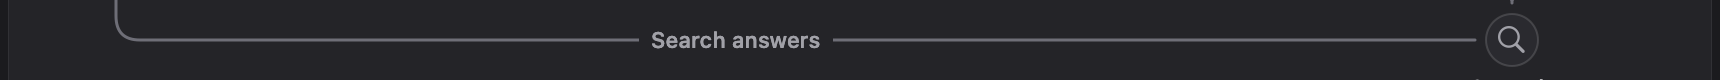
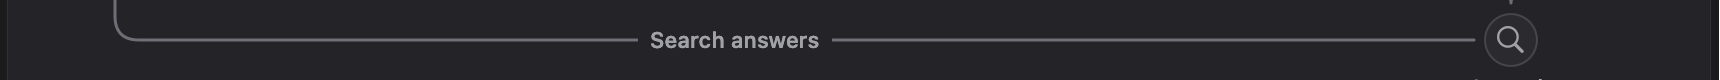
fix(brainbar): both route captions share one column
Review round 1: "Session backups" and "Search answers" now sit on one x, the
forced Search answers centre (348), so they align vertically instead of
reading as two captions 36 pt apart by accident. Each stays centred on its
own line. Re-cropped the Session backups label renders from the full-chart
renders (they showed the middle of the chart) and refreshed the after
renders.

Changed region(s): [[0.3698, 0.425, 0.493, 0.6], [0.8628, 0.325, 0.8936, 0.6]]

diff --git a/brain-bar/Tests/BrainBarTests/BrainBarPipelineLineLabelTests.swift b/brain-bar/Tests/BrainBarTests/BrainBarPipelineLineLabelTests.swift
@@ -26,14 +26,14 @@ import XCTest
 
     static let captions: [(String, NDPipe)] = [(Say.sessionBackups, .rail), (Say.searchAnswers, .answers)]
 
-    /// Where each caption's centre belongs: the middle of its straight run. The return line's caption gives way only as far
-    /// as the job panels force: Nightly check-up's panel (its arrow included) opens beside its purpose line and crosses the
-    /// return line, so the knock-out of "Search answers" may end no further right than that line ends.
+    /// Where both captions' centres belong, one shared column so they read as a pair: the middle of their straight runs,
+    /// moved left only as far as the job panels force. Nightly check-up's panel (its arrow included) opens beside its
+    /// purpose line and crosses the return line, so the knock-out of "Search answers" may end no further right than that
+    /// line ends.
     static func expectedMidX(_ words: String, _ pipe: NDPipe) throws -> CGFloat {
-        let run = try run(pipe), mid = (run.start.x + run.end.x) / 2
-        guard pipe == .answers else { return mid }
+        let mids = try captions.map { try run($0.1) }.map { ($0.start.x + $0.end.x) / 2 }
         let edge = try XCTUnwrap(L.purposeRect(.jobs)).maxX
-        return min(mid, edge - 6 - L.textWidth(words, size: 11, weight: .medium) / 2)
+        return min(mids.min() ?? 0, edge - 6 - L.textWidth(Say.searchAnswers, size: 11, weight: .medium) / 2)
     }
 
     /// The knock-out the brief asks for: 6 pt past the words on each side, 16 pt tall, centred on the words.
@@ -41,17 +41,20 @@ import XCTest
         CGRect(x: words.minX - 6, y: words.midY - 8, width: words.width + 12, height: 16)
     }
 
-    /// Layout: each caption's centre lies on its own line segment within 0.5 pt, at the middle of its straight run (the
-    /// return line's only as far left of it as the job panels force).
+    /// Layout: each caption's centre lies on its own line segment within 0.5 pt, and both share one column (x 348 today:
+    /// the runs' middle, moved left only as far as the job panels force), so they align vertically.
     func testEachCaptionIsCentredOnItsOwnLine() throws {
         let rects = Dictionary(uniqueKeysWithValues: L.laneLabelRects())
         XCTAssertEqual(rects.count, 2)
+        let top = try XCTUnwrap(rects[Say.sessionBackups]), bottom = try XCTUnwrap(rects[Say.searchAnswers])
+        XCTAssertEqual(top.midX, bottom.midX, accuracy: 0.01, "the two route captions share one column")
+        XCTAssertEqual(top.midX, 348, accuracy: 0.5, "the shared column is the forced Search answers centre")
         for (words, pipe) in Self.captions {
             let rect = try XCTUnwrap(rects[words], words)
             let run = try Self.run(pipe)
             XCTAssertEqual(run.start.y, run.end.y, "\(words): its run is horizontal")
             XCTAssertEqual(rect.midY, run.start.y, accuracy: 0.5, "\(words): the line passes through the words' centre")
-            XCTAssertEqual(rect.midX, try Self.expectedMidX(words, pipe), accuracy: 0.5, "\(words): centred on the straight run")
+            XCTAssertEqual(rect.midX, try Self.expectedMidX(words, pipe), accuracy: 0.5, "\(words): on the shared column")
             XCTAssertGreaterThan(rect.minX, min(run.start.x, run.end.x) + 16, "\(words): the line shows on its left")
             XCTAssertLessThan(rect.maxX, max(run.start.x, run.end.x) - 16, "\(words): the line shows on its right")
         }

diff --git a/brain-bar/Sources/BrainBar/NewDesign/NDPipelineLoop.swift b/brain-bar/Sources/BrainBar/NewDesign/NDPipelineLoop.swift
@@ -561,15 +561,22 @@ enum NDPipelineLayout {
     /// further right. The knock-out of "Search answers" ends here, so no open panel's edge ever cuts through it (R13).
     static var answersClearEdge: CGFloat { purposeRect(.jobs)?.maxX ?? .greatestFiniteMagnitude }
 
-    /// Each caption's words box: its line box centred on its line, horizontally centred on the line's straight run. The
-    /// return line's caption moves left of that centre only as far as the job panels force it (`answersClearEdge`).
+    /// The one column both route captions share, so they read as a pair: the middle of their straight runs, moved left
+    /// only as far as the job panels force "Search answers" (its knock-out ends at `answersClearEdge`).
+    static var laneLabelColumn: CGFloat {
+        let mids = laneLabels.map { straightRun($0.pipe) }.map { ($0.start.x + $0.end.x) / 2 }
+        let answers = textWidth(Say.searchAnswers, size: 11, weight: .medium)
+        return min(mids.min() ?? 0, answersClearEdge - laneLabelKnockoutPad - answers / 2)
+    }
+
+    /// Each caption's words box: its line box centred on its own line, horizontally centred on the shared column.
     static func laneLabelRects() -> [(String, CGRect)] {
-        laneLabels.map { words, pipe in
+        let x = laneLabelColumn
+        return laneLabels.map { words, pipe in
             let run = straightRun(pipe)
-            var centre = CGPoint(x: (run.start.x + run.end.x) / 2, y: (run.start.y + run.end.y) / 2)
+            let y = (run.start.y + run.end.y) / 2
             let w = textWidth(words, size: 11, weight: .medium), h = laneLabelLineHeight
-            if pipe == .answers { centre.x = min(centre.x, answersClearEdge - laneLabelKnockoutPad - w / 2) }
-            return (words, CGRect(x: centre.x - w / 2, y: centre.y - h / 2, width: w, height: h))
+            return (words, CGRect(x: x - w / 2, y: y - h / 2, width: w, height: h))
         }
     }
 
